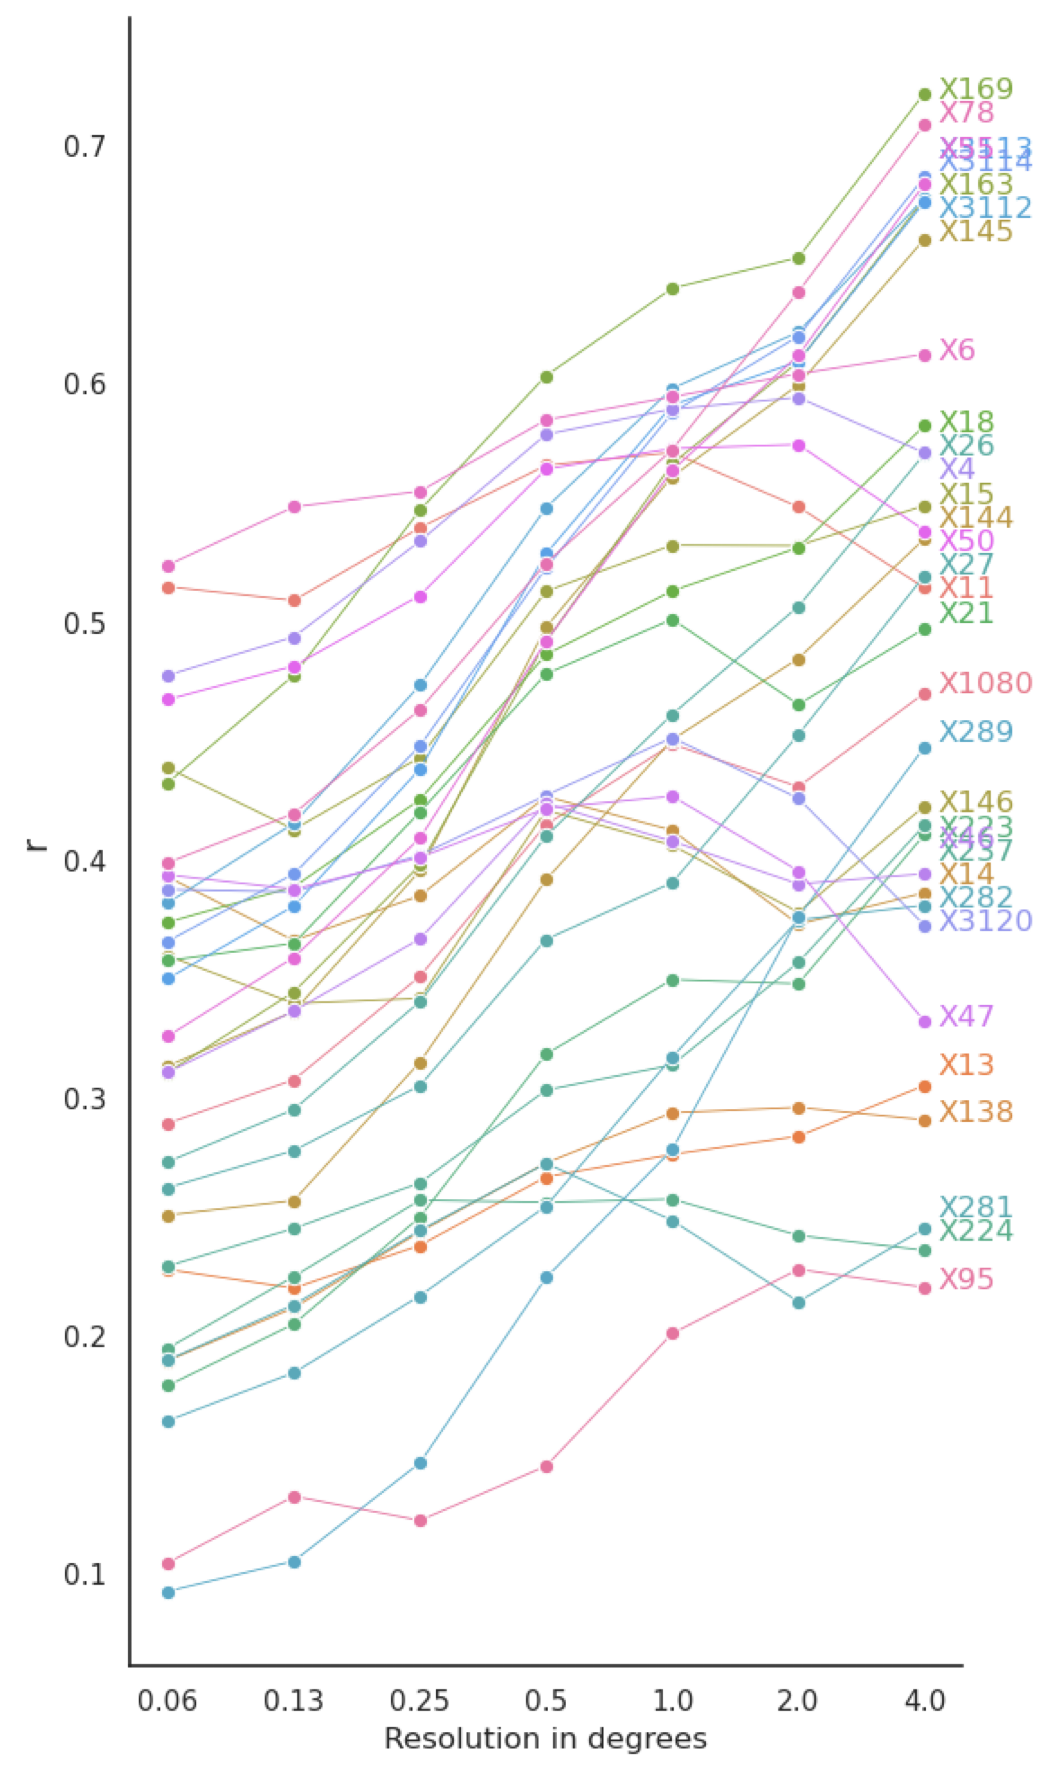
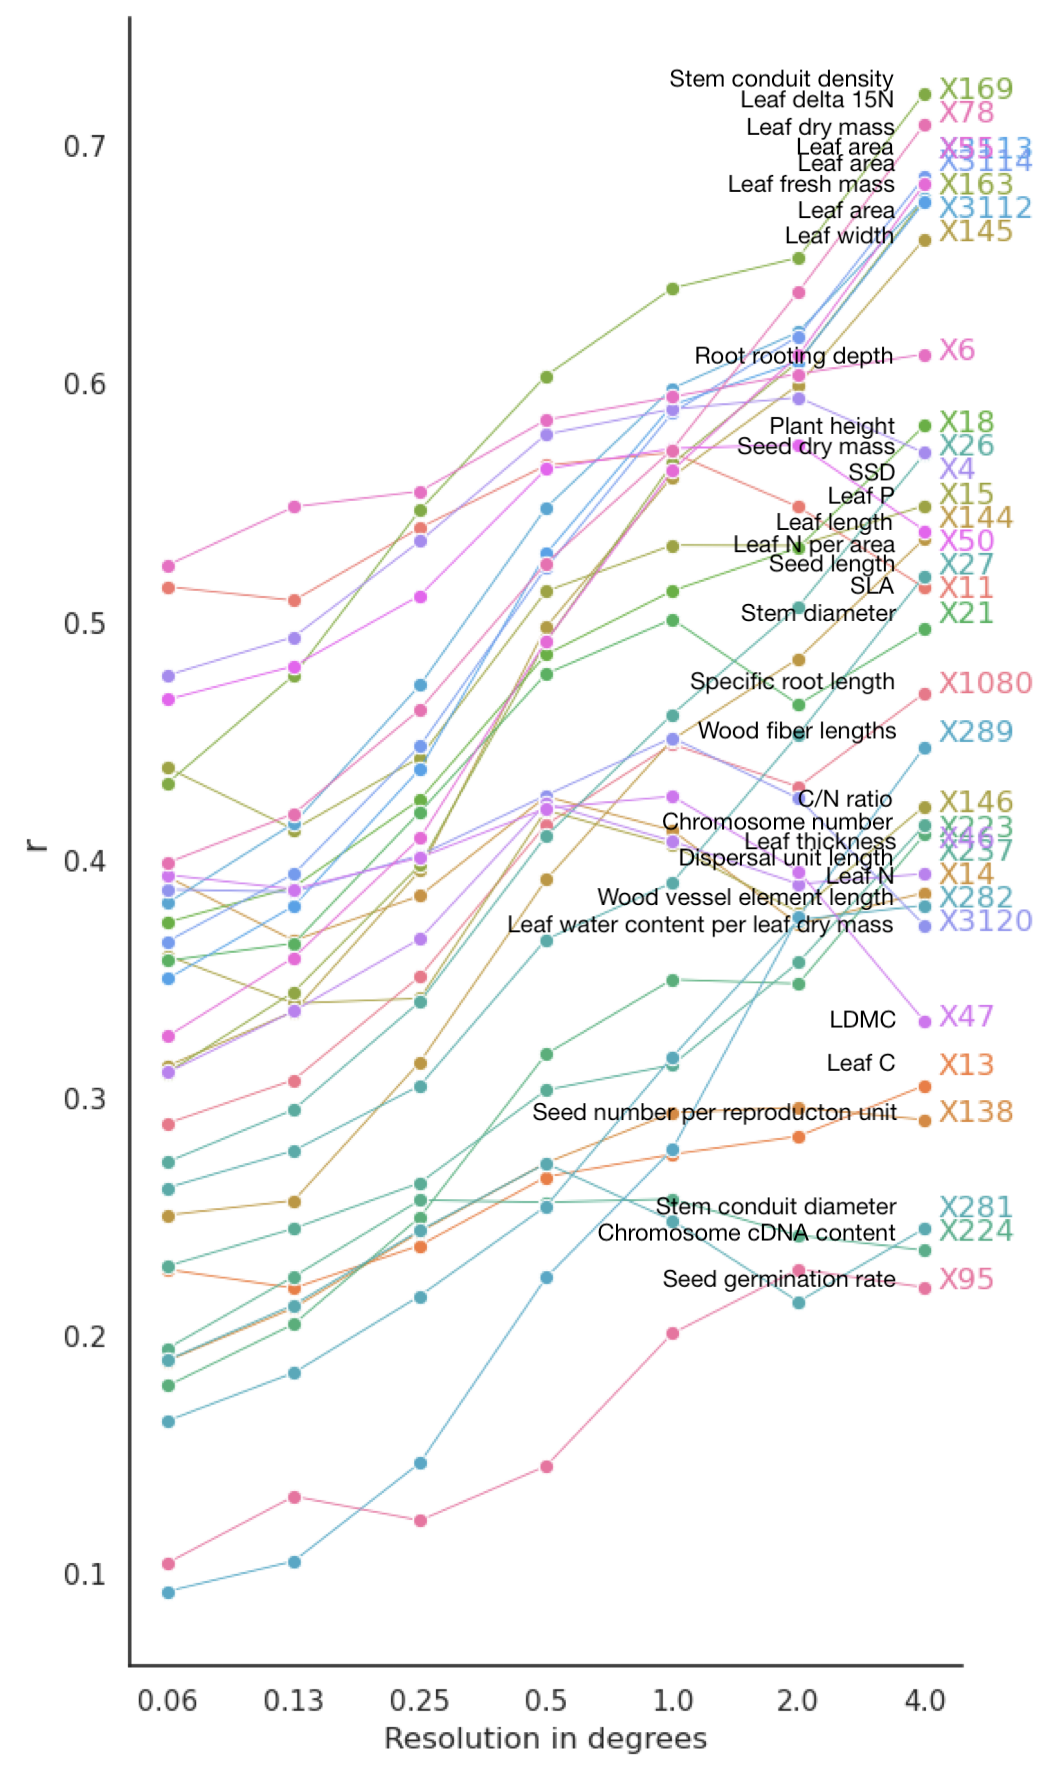
add trait names

Changed region(s): [[0.4867, 0.1862, 0.8517, 0.5277], [0.5171, 0.5587, 0.8517, 0.7449], [0.6388, 0.031, 0.8517, 0.1552]]

diff --git a/maps_GBIF/README.md b/maps_GBIF/README.md
@@ -19,6 +19,66 @@ Figure 1: Global density of GBIF subsample at 2° resolution.
 
 ## Traits in TRY gap-filled:
 
+|  TRY trait ID |  Trait name |
+|---|---|
+|  169 | Stem conduit density (vessels and tracheids)  |  
+|  78 | Leaf nitrogen (N) isotope signature (delta 15N).  |   
+|  55 |  Leaf dry mass (single leaf) |  
+|  3113 | Leaf area (in case of compound leaves: leaflet, undefined if petiole is in- or excluded)  |  
+|  3114 |  Leaf area (in case of compound leaves undefined if leaf or leaflet, undefined if petiole is in- or excluded) |  
+|  163 | Leaf fresh mass  |  
+|  3112 | Leaf area (in case of compound leaves: leaf, undefined if petiole in- or excluded)  |  
+|  145 | Leaf width |  
+|  6 |  Root rooting depth |  
+|  18 |  Plant height  |  
+|  26 | Seed dry mass |  
+|  4 |  Stem specific density (SSD) or wood density (stem dry mass per stem fresh volume) |  
+|  15 | Leaf phosphorus (P) content per leaf dry mass  |  
+|  144 | Leaf length  |  
+|  50 | Leaf nitrogen (N) content per leaf area  |  
+|  27 |  Seed length |  
+|  11 | Leaf area per leaf dry mass (specific leaf area, SLA or 1/LMA)  |  
+|  21 | Stem diameter  |  
+|  1080 | Root length per root dry mass (specific root length, SRL)  |  
+|  289 | Wood fiber lengths  |  
+|  146 | Leaf carbon/nitrogen (C/N) ratio|  
+|  223 | Species genotype: chromosome number  |  
+|  46 |  Leaf thickness  |
+|  237 | Dispersal unit length  |  
+|  14 |  Leaf nitrogen (N) content per leaf dry mass |  
+|  282 | Wood vessel element length; stem conduit (vessel and tracheids) element length |  
+|  3120 | Leaf water content per leaf dry mass (not saturated)  |  
+|  47 |  Leaf dry mass per leaf fresh mass (leaf dry matter content, LDMC)|  
+|  13 | Leaf carbon (C) content per leaf dry mass  |  
+|  138 |  Seed number per reproducton unit |  
+|  281 |  Stem conduit diameter (vessels, tracheids) |  
+|  224 |  Species genotype: chromosome cDNA content |  
+|  95 |  Seed germination rate (germination efficiency) |  
+
+
+Stem conduit density
+DeltaN15
+Leaf dry mass
+Leaf area (3113, 3114, 3112)
+Leaf fresh mass
+Leaf width
+
+Rooting depth
+
+Plant height (18)
+Seed dry mass
+SSD
+Leaf P per leaf dry mass
+Leaf length
+Leaf N per area
+Seed length
+SLA
+Stem diameter
+
+Root length per root dry mass
+Leaf water content per leaf dry mass
+LDMC
+
 ## Correlation of sPlotOpen and GBIF sample for all traits at different resolutions
 
 ![Corr Plot](corr_res.PNG)
